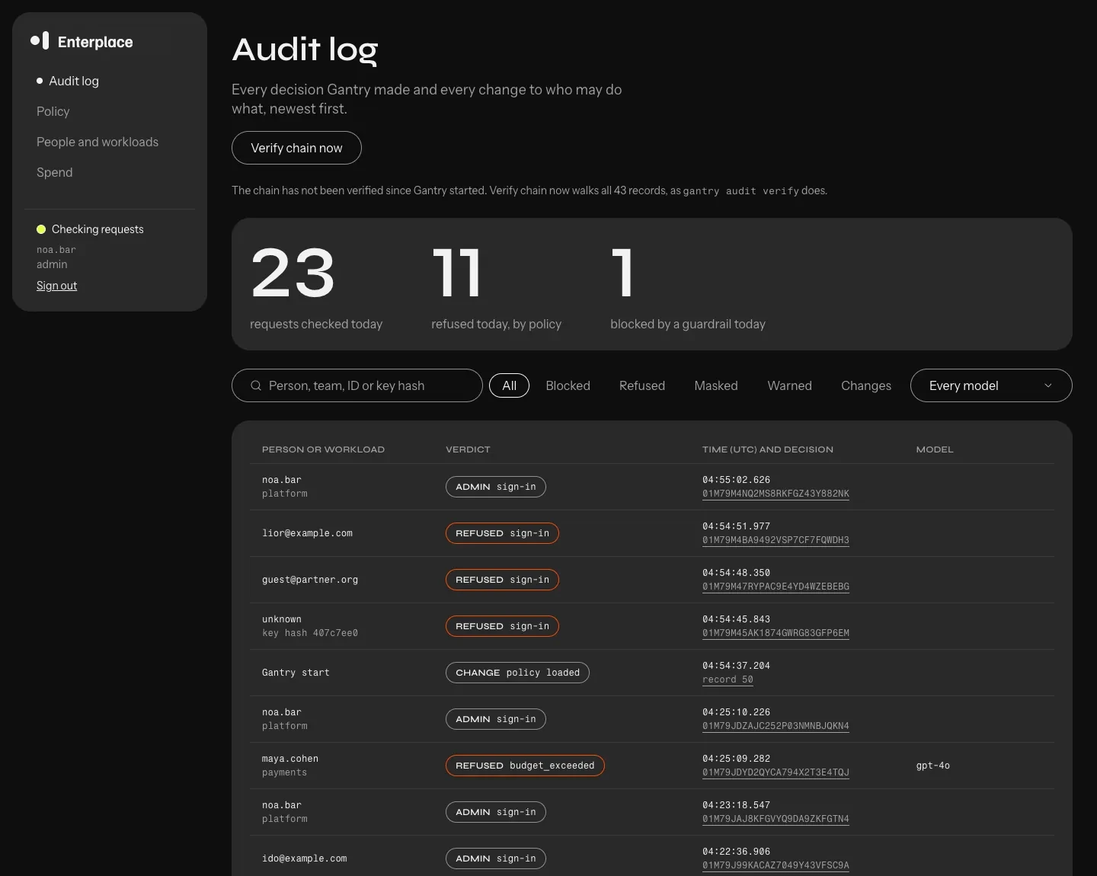
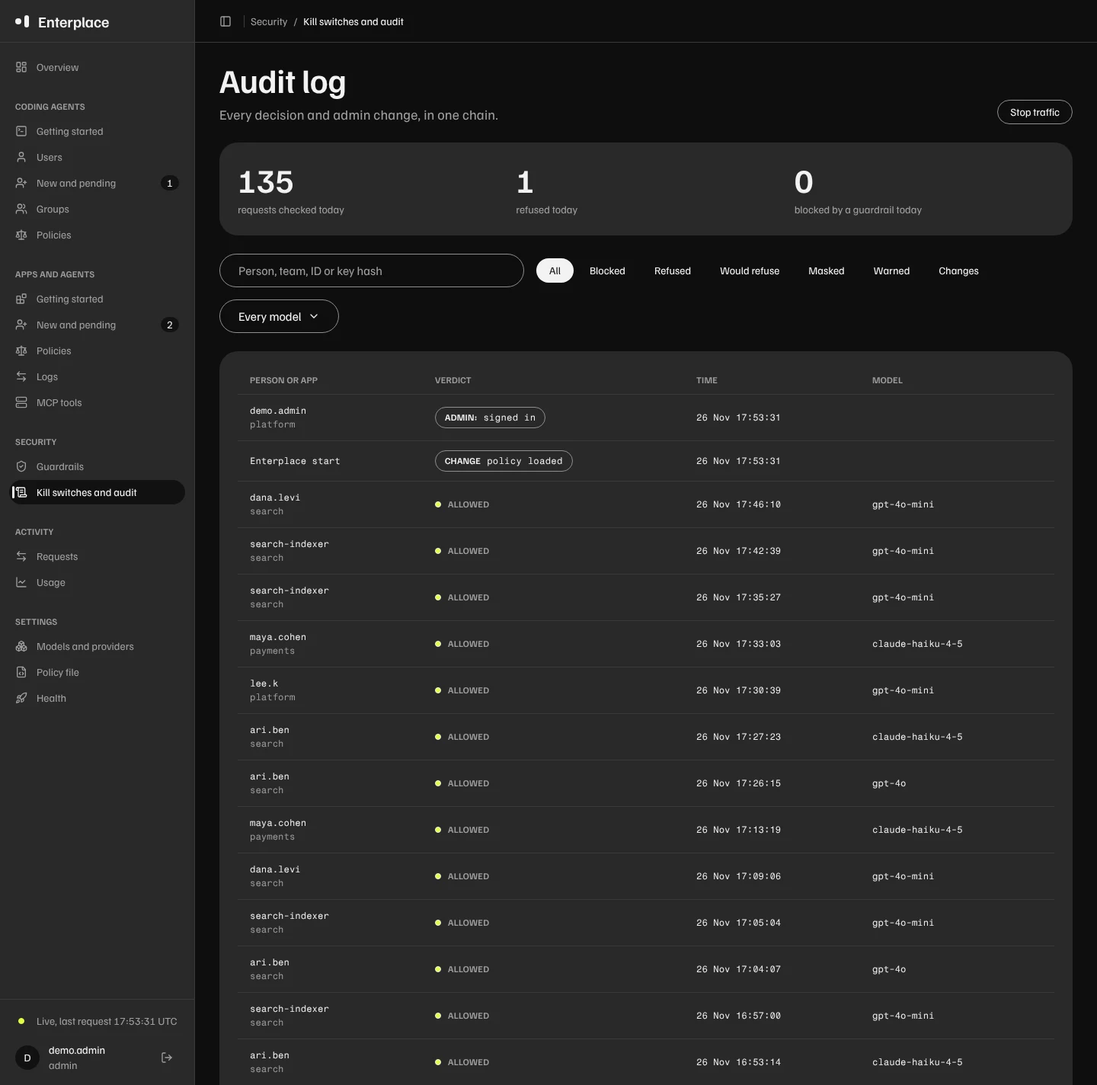
Site screenshots taken again from the current console, and a script that takes them
scripts/site_screens.py serves `enterplace demo-seed --fake-records` and,
with --database, a copy whose policy is kept in Postgres, signs in with
headless Chrome and saves each console page the site shows as WebP at
1440 wide: Overview (new), Spend this month, Audit log, Edit the policy
with a dry run that refuses two recent requests, and New and pending
(new). The old shots showed the console before the use case layout.

The product page shows Overview and New and pending; captions and alt text
describe the new shots and name the pages as the console does. The coding
agents use case gains coding agent controls. Usage replaces the Analytics
page in the site's text.

The Cloudflare template, its Dockerfile and the Terraform examples name
0.3.0, the newest release with an image, where they named 0.1.0.

diff --git a/site/public/product/index.html b/site/public/product/index.html
@@ -243,12 +243,21 @@ Last hash: 1ae338b73793e850d4a1a345e1648c1addde...</pre></figure>
   <div class="shots">
     <div>
       <div class="stack">
+        <h3>Overview</h3>
+        <p>What goes through Enterplace, by use case: coding agents, apps and agents, MCP tools. Each card says what came in today, what needs a decision, and the next step, and a new install starts from a checklist that ticks itself as the gateway sees each step happen.</p>
+        <a class="more" href="https://docs.enterplace.dev/operations/console/">The console in the docs <svg class="arrow" viewBox="0 0 24 24" width="16" height="16" fill="none" stroke="currentColor" stroke-width="1.5" stroke-linecap="round" stroke-linejoin="round" aria-hidden="true"><path d="M5 12h14"></path><path d="m12 5 7 7-7 7"></path></svg>
+</a>
+      </div>
+      <figure class="shot shot-auto"><figcaption>Enterplace console: Overview</figcaption><div class="shot-in"><img class="only-light" src="/img/console-overview-light.webp" width="1440" height="1098" loading="lazy" alt="The Overview page of the Enterplace console: spend this month, and one card per use case (coding agents, apps and agents, MCP tools) with today's requests, what needs attention and the next step."><img class="only-dark" src="/img/console-overview-dark.webp" width="1440" height="1098" loading="lazy" alt="The Overview page of the Enterplace console: spend this month, and one card per use case (coding agents, apps and agents, MCP tools) with today's requests, what needs attention and the next step."></div></figure>
+    </div>
+    <div>
+      <div class="stack">
         <h3>Audit log</h3>
         <p>Every decision and every change to who may do what, newest first. Filter by blocked, refused, masked or warned, and open a record to see the rule and the findings behind it.</p>
         <a class="more" href="https://docs.enterplace.dev/operations/console/">The console in the docs <svg class="arrow" viewBox="0 0 24 24" width="16" height="16" fill="none" stroke="currentColor" stroke-width="1.5" stroke-linecap="round" stroke-linejoin="round" aria-hidden="true"><path d="M5 12h14"></path><path d="m12 5 7 7-7 7"></path></svg>
 </a>
       </div>
-      <figure class="shot shot-auto"><figcaption>Enterplace console: Audit log</figcaption><div class="shot-in"><img class="only-light" src="/img/console-audit-light.webp" width="1440" height="1150" loading="lazy" alt="The Audit log page of the Enterplace console: 23 requests checked today, 11 refused by policy, 1 blocked by a guardrail, and a table of decisions with person, verdict, time and model."><img class="only-dark" src="/img/console-audit-dark.webp" width="1440" height="1150" loading="lazy" alt="The Audit log page of the Enterplace console: 23 requests checked today, 11 refused by policy, 1 blocked by a guardrail, and a table of decisions with person, verdict, time and model."></div></figure>
+      <figure class="shot shot-auto"><figcaption>Enterplace console: Audit log</figcaption><div class="shot-in"><img class="only-light" src="/img/console-audit-light.webp" width="1440" height="1424" loading="lazy" alt="The Audit log page of the Enterplace console: requests checked, refused and blocked by a guardrail today, filters by verdict and model, and a table of decisions with person or app, verdict, time and model."><img class="only-dark" src="/img/console-audit-dark.webp" width="1440" height="1424" loading="lazy" alt="The Audit log page of the Enterplace console: requests checked, refused and blocked by a guardrail today, filters by verdict and model, and a table of decisions with person or app, verdict, time and model."></div></figure>
     </div>
     <div>
       <div class="stack">
@@ -257,7 +266,7 @@ Last hash: 1ae338b73793e850d4a1a345e1648c1addde...</pre></figure>
         <a class="more" href="https://docs.enterplace.dev/operations/request-log/">Request log and analytics <svg class="arrow" viewBox="0 0 24 24" width="16" height="16" fill="none" stroke="currentColor" stroke-width="1.5" stroke-linecap="round" stroke-linejoin="round" aria-hidden="true"><path d="M5 12h14"></path><path d="m12 5 7 7-7 7"></path></svg>
 </a>
       </div>
-      <figure class="shot"><figcaption>Enterplace console: Spend <span>light theme</span></figcaption><div class="shot-in"><img src="/img/console-spend-light.webp" width="1440" height="1090" loading="lazy" alt="The Spend page of the Enterplace console: a bar chart of spend per day, the three biggest spenders, budgets for two teams and one key, and spend by model."></div></figure>
+      <figure class="shot"><figcaption>Enterplace console: Spend this month <span>light theme</span></figcaption><div class="shot-in"><img src="/img/console-spend-light.webp" width="1440" height="1487" loading="lazy" alt="The Spend this month page of the Enterplace console: spend per day against the pace that keeps every budget inside its limit, who spent most, each budget with a sentence on whether it lasts the month, and spend by model."></div></figure>
     </div>
     <div>
       <div class="stack">
@@ -266,7 +275,16 @@ Last hash: 1ae338b73793e850d4a1a345e1648c1addde...</pre></figure>
         <a class="more" href="https://docs.enterplace.dev/operations/console-editing/">Editing the policy <svg class="arrow" viewBox="0 0 24 24" width="16" height="16" fill="none" stroke="currentColor" stroke-width="1.5" stroke-linecap="round" stroke-linejoin="round" aria-hidden="true"><path d="M5 12h14"></path><path d="m12 5 7 7-7 7"></path></svg>
 </a>
       </div>
-      <figure class="shot"><figcaption>Enterplace console: Edit the policy <span>light theme</span></figcaption><div class="shot-in"><img src="/img/console-policy-dry-run-light.webp" width="1440" height="1537" loading="lazy" alt="The Edit the policy page of the Enterplace console: a dry run summary, the policy as YAML, a field for what changed, and buttons to run a dry run or save for approval."></div></figure>
+      <figure class="shot"><figcaption>Enterplace console: Edit the policy <span>light theme</span></figcaption><div class="shot-in"><img src="/img/console-policy-dry-run-light.webp" width="1440" height="1877" loading="lazy" alt="The Edit the policy page of the Enterplace console: a dry run of a draft that cuts a team budget, listing the two recent requests it would now refuse, above the policy as YAML and buttons to run a dry run or save for approval."></div></figure>
+    </div>
+    <div>
+      <div class="stack">
+        <h3>New and pending</h3>
+        <p>A key, person token or sign-in no admin has reviewed is let through and listed, held until someone allows it, or blocked: the policy says which. Allow and Block work on every gateway within 2 seconds, and a model no provider serves is listed with Add a provider.</p>
+        <a class="more" href="https://docs.enterplace.dev/governance/new-callers/">New callers <svg class="arrow" viewBox="0 0 24 24" width="16" height="16" fill="none" stroke="currentColor" stroke-width="1.5" stroke-linecap="round" stroke-linejoin="round" aria-hidden="true"><path d="M5 12h14"></path><path d="m12 5 7 7-7 7"></path></svg>
+</a>
+      </div>
+      <figure class="shot"><figcaption>Enterplace console: New and pending <span>light theme</span></figcaption><div class="shot-in"><img src="/img/console-new-callers-light.webp" width="1440" height="1111" loading="lazy" alt="The New and pending page of the Enterplace console: new callers held for approval, a service key and a person key, each with its first request, its refusals and Allow and Block buttons, and the models no provider serves."></div></figure>
     </div>
   </div>
 </section>

diff --git a/site/src/pages/product.html b/site/src/pages/product.html
@@ -141,11 +141,19 @@ Last hash: 1ae338b73793e850d4a1a345e1648c1addde...</pre></figure>
   <div class="shots">
     <div>
       <div class="stack">
+        <h3>Overview</h3>
+        <p>What goes through Enterplace, by use case: coding agents, apps and agents, MCP tools. Each card says what came in today, what needs a decision, and the next step, and a new install starts from a checklist that ticks itself as the gateway sees each step happen.</p>
+        <a class="more" href="docs:/operations/console/">The console in the docs {{> arrow}}</a>
+      </div>
+      <figure class="shot shot-auto"><figcaption>Enterplace console: Overview</figcaption><div class="shot-in"><img class="only-light" src="/img/console-overview-light.webp" width="1440" height="1098" loading="lazy" alt="The Overview page of the Enterplace console: spend this month, and one card per use case (coding agents, apps and agents, MCP tools) with today's requests, what needs attention and the next step."><img class="only-dark" src="/img/console-overview-dark.webp" width="1440" height="1098" loading="lazy" alt="The Overview page of the Enterplace console: spend this month, and one card per use case (coding agents, apps and agents, MCP tools) with today's requests, what needs attention and the next step."></div></figure>
+    </div>
+    <div>
+      <div class="stack">
         <h3>Audit log</h3>
         <p>Every decision and every change to who may do what, newest first. Filter by blocked, refused, masked or warned, and open a record to see the rule and the findings behind it.</p>
         <a class="more" href="docs:/operations/console/">The console in the docs {{> arrow}}</a>
       </div>
-      <figure class="shot shot-auto"><figcaption>Enterplace console: Audit log</figcaption><div class="shot-in"><img class="only-light" src="/img/console-audit-light.webp" width="1440" height="1150" loading="lazy" alt="The Audit log page of the Enterplace console: 23 requests checked today, 11 refused by policy, 1 blocked by a guardrail, and a table of decisions with person, verdict, time and model."><img class="only-dark" src="/img/console-audit-dark.webp" width="1440" height="1150" loading="lazy" alt="The Audit log page of the Enterplace console: 23 requests checked today, 11 refused by policy, 1 blocked by a guardrail, and a table of decisions with person, verdict, time and model."></div></figure>
+      <figure class="shot shot-auto"><figcaption>Enterplace console: Audit log</figcaption><div class="shot-in"><img class="only-light" src="/img/console-audit-light.webp" width="1440" height="1424" loading="lazy" alt="The Audit log page of the Enterplace console: requests checked, refused and blocked by a guardrail today, filters by verdict and model, and a table of decisions with person or app, verdict, time and model."><img class="only-dark" src="/img/console-audit-dark.webp" width="1440" height="1424" loading="lazy" alt="The Audit log page of the Enterplace console: requests checked, refused and blocked by a guardrail today, filters by verdict and model, and a table of decisions with person or app, verdict, time and model."></div></figure>
     </div>
     <div>
       <div class="stack">
@@ -153,7 +161,7 @@ Last hash: 1ae338b73793e850d4a1a345e1648c1addde...</pre></figure>
         <p>Spend per day against the pace that keeps every budget inside its limit, who spent most, and each budget with a sentence that says whether it lasts the period.</p>
         <a class="more" href="docs:/operations/request-log/">Request log and analytics {{> arrow}}</a>
       </div>
-      <figure class="shot"><figcaption>Enterplace console: Spend <span>light theme</span></figcaption><div class="shot-in"><img src="/img/console-spend-light.webp" width="1440" height="1090" loading="lazy" alt="The Spend page of the Enterplace console: a bar chart of spend per day, the three biggest spenders, budgets for two teams and one key, and spend by model."></div></figure>
+      <figure class="shot"><figcaption>Enterplace console: Spend this month <span>light theme</span></figcaption><div class="shot-in"><img src="/img/console-spend-light.webp" width="1440" height="1487" loading="lazy" alt="The Spend this month page of the Enterplace console: spend per day against the pace that keeps every budget inside its limit, who spent most, each budget with a sentence on whether it lasts the month, and spend by model."></div></figure>
     </div>
     <div>
       <div class="stack">
@@ -161,7 +169,15 @@ Last hash: 1ae338b73793e850d4a1a345e1648c1addde...</pre></figure>
         <p>With a Postgres store, the policy is edited in the console. A save is checked as <code>enterplace check</code> checks a file, replayed against recent requests to show what would change, and then waits for a second admin's approval.</p>
         <a class="more" href="docs:/operations/console-editing/">Editing the policy {{> arrow}}</a>
       </div>
-      <figure class="shot"><figcaption>Enterplace console: Edit the policy <span>light theme</span></figcaption><div class="shot-in"><img src="/img/console-policy-dry-run-light.webp" width="1440" height="1537" loading="lazy" alt="The Edit the policy page of the Enterplace console: a dry run summary, the policy as YAML, a field for what changed, and buttons to run a dry run or save for approval."></div></figure>
+      <figure class="shot"><figcaption>Enterplace console: Edit the policy <span>light theme</span></figcaption><div class="shot-in"><img src="/img/console-policy-dry-run-light.webp" width="1440" height="1877" loading="lazy" alt="The Edit the policy page of the Enterplace console: a dry run of a draft that cuts a team budget, listing the two recent requests it would now refuse, above the policy as YAML and buttons to run a dry run or save for approval."></div></figure>
+    </div>
+    <div>
+      <div class="stack">
+        <h3>New and pending</h3>
+        <p>A key, person token or sign-in no admin has reviewed is let through and listed, held until someone allows it, or blocked: the policy says which. Allow and Block work on every gateway within 2 seconds, and a model no provider serves is listed with Add a provider.</p>
+        <a class="more" href="docs:/governance/new-callers/">New callers {{> arrow}}</a>
+      </div>
+      <figure class="shot"><figcaption>Enterplace console: New and pending <span>light theme</span></figcaption><div class="shot-in"><img src="/img/console-new-callers-light.webp" width="1440" height="1111" loading="lazy" alt="The New and pending page of the Enterplace console: new callers held for approval, a service key and a person key, each with its first request, its refusals and Allow and Block buttons, and the models no provider serves."></div></figure>
     </div>
   </div>
 </section>

diff --git a/site/public/learn/five-steps/index.html b/site/public/learn/five-steps/index.html
@@ -127,7 +127,7 @@ enterplace start</pre></figure>
     <div class="stack">
       <div><h3>What you get</h3><p>A list of the AI tools and models in use and what each one costs, from the first day. Nothing is blocked.</p></div>
       <div><h3>The one change</h3><p>On the machine that will run Enterplace, run enterplace start. No provider key is needed: it writes a policy in observe mode with one rule that allows everyone, a free demo model and Claude subscription passthrough, and opens the dashboard. Its Start here checklist sends a first request and shows the settings for each coding tool. Then have the first people point their tool at the gateway.</p></div>
-      <div><h3>Check it worked</h3><p>enterplace start opens the console through a one-time sign-in link. The banner says <strong>Observe mode: nothing is blocked</strong>. The Analytics page ranks requests, tokens and cost by coding agent, model or key.</p></div>
+      <div><h3>Check it worked</h3><p>enterplace start opens the console through a one-time sign-in link. The banner says <strong>Observe mode</strong>: rules, limits and guardrails only record what they would refuse. The Usage page ranks requests, tokens and cost by coding agent, model or key.</p></div>
       <div><h3>Who does it</h3><p>A platform engineer. For everyone else it is one settings change in each tool.</p></div>
       <a class="more" href="https://docs.enterplace.dev/start/step-1-see/">Step 1 in the docs <svg class="arrow" viewBox="0 0 24 24" width="16" height="16" fill="none" stroke="currentColor" stroke-width="1.5" stroke-linecap="round" stroke-linejoin="round" aria-hidden="true"><path d="M5 12h14"></path><path d="m12 5 7 7-7 7"></path></svg>
 </a>
@@ -164,7 +164,7 @@ rules:
     <div class="stack">
       <div><h3>What you get</h3><p>Every request has a name and a team on it. Usage and cost show up per person and per team.</p></div>
       <div><h3>The one change</h3><p>Give each person a key of their own, in place of the shared one from step 1. The command prints the key once, with the lines their tool reads. With more than a handful of people, let them sign in with the company account and issue their own.</p></div>
-      <div><h3>Check it worked</h3><p>Analytics ranks by person or team. The People and workloads page lists every key by name and team, with what it spent this month and today. <code>enterplace audit coverage</code> names the people who hold a key and have sent nothing.</p></div>
+      <div><h3>Check it worked</h3><p>Usage ranks by person or team. The Users page lists every key by name and team, with its requests and its last request. <code>enterplace audit coverage</code> names the people who hold a key and have sent nothing.</p></div>
       <div><h3>Who does it</h3><p>The same engineer, or your identity team. People swap a shared key for their own. Nothing is blocked in this step either.</p></div>
       <a class="more" href="https://docs.enterplace.dev/start/step-2-know/">Step 2 in the docs <svg class="arrow" viewBox="0 0 24 24" width="16" height="16" fill="none" stroke="currentColor" stroke-width="1.5" stroke-linecap="round" stroke-linejoin="round" aria-hidden="true"><path d="M5 12h14"></path><path d="m12 5 7 7-7 7"></path></svg>
 </a>
@@ -273,7 +273,7 @@ Last hash: 1ae338b73793e850d4a1a345e1648c1addde...</pre></figure>
     <p>The questions from the start, and where each answer now comes from.</p>
   </div>
   <ul class="answers">
-    <li><span><strong>Which tools and models do we use, and what do they cost?</strong> The Analytics page, by tool, model and key.</span></li>
+    <li><span><strong>Which tools and models do we use, and what do they cost?</strong> The Usage page, by tool, model and key.</span></li>
     <li><span><strong>Who uses what?</strong> The same page by person and team, and the coverage report.</span></li>
     <li><span><strong>What is the most we can spend, and can we stop it?</strong> The budgets in the policy, and the kill switch.</span></li>
     <li><span><strong>What stops a password from being sent?</strong> The secrets guardrail, with its findings in the request log.</span></li>

diff --git a/site/src/pages/learn/five-steps.html b/site/src/pages/learn/five-steps.html
@@ -27,7 +27,7 @@ enterplace start</pre></figure>
     <div class="stack">
       <div><h3>What you get</h3><p>A list of the AI tools and models in use and what each one costs, from the first day. Nothing is blocked.</p></div>
       <div><h3>The one change</h3><p>On the machine that will run Enterplace, run enterplace start. No provider key is needed: it writes a policy in observe mode with one rule that allows everyone, a free demo model and Claude subscription passthrough, and opens the dashboard. Its Start here checklist sends a first request and shows the settings for each coding tool. Then have the first people point their tool at the gateway.</p></div>
-      <div><h3>Check it worked</h3><p>enterplace start opens the console through a one-time sign-in link. The banner says <strong>Observe mode: nothing is blocked</strong>. The Analytics page ranks requests, tokens and cost by coding agent, model or key.</p></div>
+      <div><h3>Check it worked</h3><p>enterplace start opens the console through a one-time sign-in link. The banner says <strong>Observe mode</strong>: rules, limits and guardrails only record what they would refuse. The Usage page ranks requests, tokens and cost by coding agent, model or key.</p></div>
       <div><h3>Who does it</h3><p>A platform engineer. For everyone else it is one settings change in each tool.</p></div>
       <a class="more" href="docs:/start/step-1-see/">Step 1 in the docs {{> arrow}}</a>
     </div>
@@ -63,7 +63,7 @@ rules:
     <div class="stack">
       <div><h3>What you get</h3><p>Every request has a name and a team on it. Usage and cost show up per person and per team.</p></div>
       <div><h3>The one change</h3><p>Give each person a key of their own, in place of the shared one from step 1. The command prints the key once, with the lines their tool reads. With more than a handful of people, let them sign in with the company account and issue their own.</p></div>
-      <div><h3>Check it worked</h3><p>Analytics ranks by person or team. The People and workloads page lists every key by name and team, with what it spent this month and today. <code>enterplace audit coverage</code> names the people who hold a key and have sent nothing.</p></div>
+      <div><h3>Check it worked</h3><p>Usage ranks by person or team. The Users page lists every key by name and team, with its requests and its last request. <code>enterplace audit coverage</code> names the people who hold a key and have sent nothing.</p></div>
       <div><h3>Who does it</h3><p>The same engineer, or your identity team. People swap a shared key for their own. Nothing is blocked in this step either.</p></div>
       <a class="more" href="docs:/start/step-2-know/">Step 2 in the docs {{> arrow}}</a>
     </div>
@@ -168,7 +168,7 @@ Last hash: 1ae338b73793e850d4a1a345e1648c1addde...</pre></figure>
     <p>The questions from the start, and where each answer now comes from.</p>
   </div>
   <ul class="answers">
-    <li><span><strong>Which tools and models do we use, and what do they cost?</strong> The Analytics page, by tool, model and key.</span></li>
+    <li><span><strong>Which tools and models do we use, and what do they cost?</strong> The Usage page, by tool, model and key.</span></li>
     <li><span><strong>Who uses what?</strong> The same page by person and team, and the coverage report.</span></li>
     <li><span><strong>What is the most we can spend, and can we stop it?</strong> The budgets in the policy, and the kill switch.</span></li>
     <li><span><strong>What stops a password from being sent?</strong> The secrets guardrail, with its findings in the request log.</span></li>

diff --git a/site/public/use-cases/cost-control/index.html b/site/public/use-cases/cost-control/index.html
@@ -147,7 +147,7 @@ enterplace</a>
     <li class="no-code">
       <div class="guide-text">
         <h3>See spend per person, team and model</h3>
-        <p>Once tools point at Enterplace and each person has a key, the console's Analytics page ranks requests, tokens and cost by person, team, key, model or coding agent. Enterplace prices each answer from a built-in table for most models, and <code>enterplace prices</code> prints it.</p>
+        <p>Once tools point at Enterplace and each person has a key, the console's Usage page ranks requests, tokens and cost by person, team, key, model or coding agent. Enterplace prices each answer from a built-in table for most models, and <code>enterplace prices</code> prints it.</p>
         <a class="more" href="/learn/five-steps/#see">Steps 1 and 2: See and Know <svg class="arrow" viewBox="0 0 24 24" width="16" height="16" fill="none" stroke="currentColor" stroke-width="1.5" stroke-linecap="round" stroke-linejoin="round" aria-hidden="true"><path d="M5 12h14"></path><path d="m12 5 7 7-7 7"></path></svg>
 </a>
       </div>
@@ -207,8 +207,8 @@ enterplace</a>
       <p class="muted">Alerts to Slack, Teams, PagerDuty or email before a budget runs out are part of Enterplace Enterprise. <span class="ent">Enterprise</span></p>
     </div>
     <div>
-      <figure class="shot"><figcaption>Enterplace console: Spend <span>light theme</span></figcaption><div class="shot-in"><img src="/img/console-spend-light.webp" width="1440" height="1090" loading="lazy" alt="The Spend page of the Enterplace console: spend per day, who spent most, each budget with its limit, and spend by model."></div></figure>
-      <p class="shot-cap">The console's Spend page, on test data.</p>
+      <figure class="shot"><figcaption>Enterplace console: Spend this month <span>light theme</span></figcaption><div class="shot-in"><img src="/img/console-spend-light.webp" width="1440" height="1487" loading="lazy" alt="The Spend this month page of the Enterplace console: spend per day against the pace that keeps every budget inside its limit, who spent most, each budget with a sentence on whether it lasts the month, and spend by model."></div></figure>
+      <p class="shot-cap">The console's Spend this month page, on test data.</p>
     </div>
   </div>
 </section>

diff --git a/site/src/pages/use-cases/cost-control.html b/site/src/pages/use-cases/cost-control.html
@@ -47,7 +47,7 @@ req: 0 | sarah.miller | payments | allow | claude-sonnet-5-5, rule payments-team
     <li class="no-code">
       <div class="guide-text">
         <h3>See spend per person, team and model</h3>
-        <p>Once tools point at Enterplace and each person has a key, the console's Analytics page ranks requests, tokens and cost by person, team, key, model or coding agent. Enterplace prices each answer from a built-in table for most models, and <code>enterplace prices</code> prints it.</p>
+        <p>Once tools point at Enterplace and each person has a key, the console's Usage page ranks requests, tokens and cost by person, team, key, model or coding agent. Enterplace prices each answer from a built-in table for most models, and <code>enterplace prices</code> prints it.</p>
         <a class="more" href="/learn/five-steps/#see">Steps 1 and 2: See and Know {{> arrow}}</a>
       </div>
     </li>
@@ -103,8 +103,8 @@ req: 0 | sarah.miller | payments | allow | claude-sonnet-5-5, rule payments-team
       <p class="muted">Alerts to Slack, Teams, PagerDuty or email before a budget runs out are part of Enterplace Enterprise. <span class="ent">Enterprise</span></p>
     </div>
     <div>
-      <figure class="shot"><figcaption>Enterplace console: Spend <span>light theme</span></figcaption><div class="shot-in"><img src="/img/console-spend-light.webp" width="1440" height="1090" loading="lazy" alt="The Spend page of the Enterplace console: spend per day, who spent most, each budget with its limit, and spend by model."></div></figure>
-      <p class="shot-cap">The console's Spend page, on test data.</p>
+      <figure class="shot"><figcaption>Enterplace console: Spend this month <span>light theme</span></figcaption><div class="shot-in"><img src="/img/console-spend-light.webp" width="1440" height="1487" loading="lazy" alt="The Spend this month page of the Enterplace console: spend per day against the pace that keeps every budget inside its limit, who spent most, each budget with a sentence on whether it lasts the month, and spend by model."></div></figure>
+      <p class="shot-cap">The console's Spend this month page, on test data.</p>
     </div>
   </div>
 </section>

diff --git a/site/public/use-cases/coding-agents/index.html b/site/public/use-cases/coding-agents/index.html
@@ -221,6 +221,23 @@ rules:
     models: ["*"]
     guardrails: [no-secrets]</pre></figure>
     </li>
+    <li>
+      <div class="guide-text">
+        <h3>Decide what the agents may do on their own</h3>
+        <p>Block skipping permission checks, auto mode and browser use for everyone, and allow one where a team needs it. The gateway refuses a request that offers browser tools with <code>browser_not_allowed</code>. On each machine the device agent writes the same choices into Claude Code's managed settings, or you deliver them in your own. <span class="ent">Enterprise</span> for the device agent.</p>
+        <a class="more" href="https://docs.enterplace.dev/governance/coding-agent-controls/">Coding agent controls in the docs <svg class="arrow" viewBox="0 0 24 24" width="16" height="16" fill="none" stroke="currentColor" stroke-width="1.5" stroke-linecap="round" stroke-linejoin="round" aria-hidden="true"><path d="M5 12h14"></path><path d="m12 5 7 7-7 7"></path></svg>
+</a>
+      </div>
+      <figure class="code"><figcaption>enterplace.policy.yaml (added)</figcaption><pre>coding_agents:
+  bypass_permissions: block
+  auto_mode: block
+  browser: block
+rules:
+  - name: qa
+    principals: { team: qa }
+    models: ["*"]
+    coding_agents: { browser: allow }</pre></figure>
+    </li>
   </ol>
 </section>
 
@@ -229,7 +246,7 @@ rules:
     <div class="stack">
       <h2>What you see afterwards</h2>
       <ul class="ticks">
-        <li>The console's Analytics page ranks requests, tokens and cost <strong>by coding agent, person, team or model</strong>.</li>
+        <li>The console's Usage page ranks requests, tokens and cost <strong>by coding agent, person, team or model</strong>.</li>
         <li><code>enterplace audit coverage</code> lists each person and the tool they used, and names the people who hold a key and have sent nothing.</li>
         <li>A refused developer reads the reason in the terminal they already use, with a decision ID an admin can look up.</li>
         <li>A coding session stays on one deployment while it answers, so the provider's prompt cache keeps working.</li>

diff --git a/site/src/pages/use-cases/coding-agents.html b/site/src/pages/use-cases/coding-agents.html
@@ -116,6 +116,22 @@ rules:
     models: ["*"]
     guardrails: [no-secrets]</pre></figure>
     </li>
+    <li>
+      <div class="guide-text">
+        <h3>Decide what the agents may do on their own</h3>
+        <p>Block skipping permission checks, auto mode and browser use for everyone, and allow one where a team needs it. The gateway refuses a request that offers browser tools with <code>browser_not_allowed</code>. On each machine the device agent writes the same choices into Claude Code's managed settings, or you deliver them in your own. <span class="ent">Enterprise</span> for the device agent.</p>
+        <a class="more" href="docs:/governance/coding-agent-controls/">Coding agent controls in the docs {{> arrow}}</a>
+      </div>
+      <figure class="code"><figcaption>enterplace.policy.yaml (added)</figcaption><pre>coding_agents:
+  bypass_permissions: block
+  auto_mode: block
+  browser: block
+rules:
+  - name: qa
+    principals: { team: qa }
+    models: ["*"]
+    coding_agents: { browser: allow }</pre></figure>
+    </li>
   </ol>
 </section>
 
@@ -124,7 +140,7 @@ rules:
     <div class="stack">
       <h2>What you see afterwards</h2>
       <ul class="ticks">
-        <li>The console's Analytics page ranks requests, tokens and cost <strong>by coding agent, person, team or model</strong>.</li>
+        <li>The console's Usage page ranks requests, tokens and cost <strong>by coding agent, person, team or model</strong>.</li>
         <li><code>enterplace audit coverage</code> lists each person and the tool they used, and names the people who hold a key and have sent nothing.</li>
         <li>A refused developer reads the reason in the terminal they already use, with a decision ID an admin can look up.</li>
         <li>A coding session stays on one deployment while it answers, so the provider's prompt cache keeps working.</li>

diff --git a/site/public/for/security/index.html b/site/public/for/security/index.html
@@ -121,8 +121,8 @@ enterplace</a>
       </dl>
     </div>
     <div>
-      <figure class="shot shot-auto"><figcaption>Enterplace console: Audit log</figcaption><div class="shot-in"><img class="only-light" src="/img/console-audit-light.webp" width="1440" height="1150" loading="lazy" alt="The Audit log page of the Enterplace console, with counts of requests checked, refused and blocked today, and a table of decisions."><img class="only-dark" src="/img/console-audit-dark.webp" width="1440" height="1150" loading="lazy" alt="The Audit log page of the Enterplace console, with counts of requests checked, refused and blocked today, and a table of decisions."></div></figure>
-      <p class="shot-cap">The console's Audit log page, on test data. Refused and blocked decisions are the only colored rows.</p>
+      <figure class="shot shot-auto"><figcaption>Enterplace console: Audit log</figcaption><div class="shot-in"><img class="only-light" src="/img/console-audit-light.webp" width="1440" height="1424" loading="lazy" alt="The Audit log page of the Enterplace console: requests checked, refused and blocked by a guardrail today, filters by verdict and model, and a table of decisions with person or app, verdict, time and model."><img class="only-dark" src="/img/console-audit-dark.webp" width="1440" height="1424" loading="lazy" alt="The Audit log page of the Enterplace console: requests checked, refused and blocked by a guardrail today, filters by verdict and model, and a table of decisions with person or app, verdict, time and model."></div></figure>
+      <p class="shot-cap">The console's Audit log page, on test data. Filter by verdict, then open a decision to see the rule behind it.</p>
     </div>
   </div>
 </section>

diff --git a/site/src/pages/for/security.html b/site/src/pages/for/security.html
@@ -21,8 +21,8 @@ nav: use-cases
       </dl>
     </div>
     <div>
-      <figure class="shot shot-auto"><figcaption>Enterplace console: Audit log</figcaption><div class="shot-in"><img class="only-light" src="/img/console-audit-light.webp" width="1440" height="1150" loading="lazy" alt="The Audit log page of the Enterplace console, with counts of requests checked, refused and blocked today, and a table of decisions."><img class="only-dark" src="/img/console-audit-dark.webp" width="1440" height="1150" loading="lazy" alt="The Audit log page of the Enterplace console, with counts of requests checked, refused and blocked today, and a table of decisions."></div></figure>
-      <p class="shot-cap">The console's Audit log page, on test data. Refused and blocked decisions are the only colored rows.</p>
+      <figure class="shot shot-auto"><figcaption>Enterplace console: Audit log</figcaption><div class="shot-in"><img class="only-light" src="/img/console-audit-light.webp" width="1440" height="1424" loading="lazy" alt="The Audit log page of the Enterplace console: requests checked, refused and blocked by a guardrail today, filters by verdict and model, and a table of decisions with person or app, verdict, time and model."><img class="only-dark" src="/img/console-audit-dark.webp" width="1440" height="1424" loading="lazy" alt="The Audit log page of the Enterplace console: requests checked, refused and blocked by a guardrail today, filters by verdict and model, and a table of decisions with person or app, verdict, time and model."></div></figure>
+      <p class="shot-cap">The console's Audit log page, on test data. Filter by verdict, then open a decision to see the rule behind it.</p>
     </div>
   </div>
 </section>

diff --git a/site/src/pages/index.html b/site/src/pages/index.html
@@ -153,8 +153,8 @@ req: 0 | sarah.miller | payments | allow | claude-sonnet-5-5, rule payments-team
       <a class="more" href="/product/">How it works, stage by stage {{> arrow}}</a>
     </div>
     <div>
-      <figure class="shot"><figcaption>Enterplace console: Spend <span>light theme</span></figcaption><div class="shot-in"><img src="/img/console-spend-light.webp" width="1440" height="1090" loading="lazy" alt="The Spend page of the Enterplace console: spend per day, who spent most, each budget with its limit, and spend by model."></div></figure>
-      <p class="shot-cap">The console's Spend page, on test data. Team payments reached its budget on 13 November and is refused until 1 December.</p>
+      <figure class="shot"><figcaption>Enterplace console: Spend this month <span>light theme</span></figcaption><div class="shot-in"><img src="/img/console-spend-light.webp" width="1440" height="1487" loading="lazy" alt="The Spend this month page of the Enterplace console: spend per day against the pace that keeps every budget inside its limit, who spent most, each budget with a sentence on whether it lasts the month, and spend by model."></div></figure>
+      <p class="shot-cap">The console's Spend this month page, on test data. The dashed line is the daily pace that keeps every monthly budget inside its limit.</p>
     </div>
   </div>
 </section>

diff --git a/site/public/index.html b/site/public/index.html
@@ -263,8 +263,8 @@ Every page: https://docs.enterplace.dev/llms.txt</pre>
 </a>
     </div>
     <div>
-      <figure class="shot"><figcaption>Enterplace console: Spend <span>light theme</span></figcaption><div class="shot-in"><img src="/img/console-spend-light.webp" width="1440" height="1090" loading="lazy" alt="The Spend page of the Enterplace console: spend per day, who spent most, each budget with its limit, and spend by model."></div></figure>
-      <p class="shot-cap">The console's Spend page, on test data. Team payments reached its budget on 13 November and is refused until 1 December.</p>
+      <figure class="shot"><figcaption>Enterplace console: Spend this month <span>light theme</span></figcaption><div class="shot-in"><img src="/img/console-spend-light.webp" width="1440" height="1487" loading="lazy" alt="The Spend this month page of the Enterplace console: spend per day against the pace that keeps every budget inside its limit, who spent most, each budget with a sentence on whether it lasts the month, and spend by model."></div></figure>
+      <p class="shot-cap">The console's Spend this month page, on test data. The dashed line is the daily pace that keeps every monthly budget inside its limit.</p>
     </div>
   </div>
 </section>
